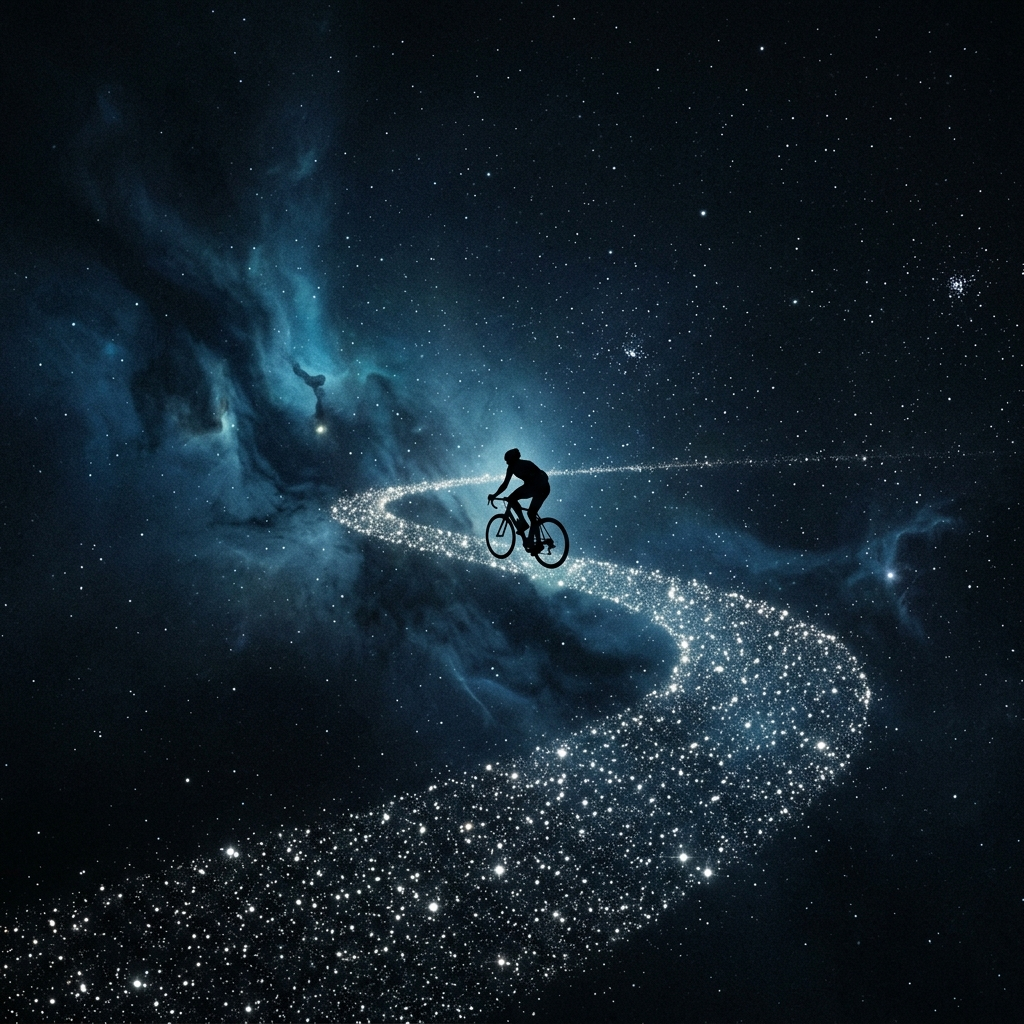
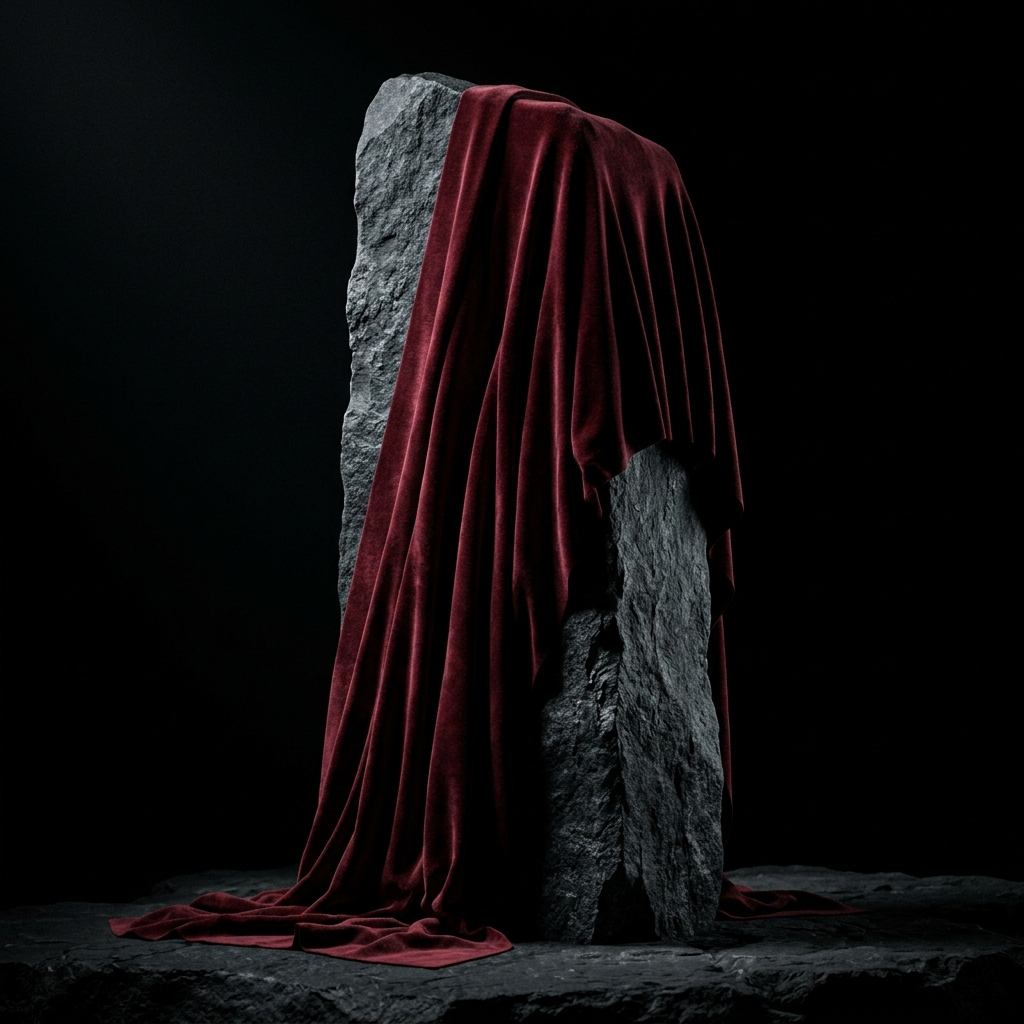
General UI Update

diff --git a/app/components/HeroSection.tsx b/app/components/HeroSection.tsx
@@ -2,68 +2,68 @@
 
 export default function HeroSection() {
   return (
-    <section className="relative pt-[160px] pb-[80px] min-h-[90vh] flex items-center overflow-hidden">
-      <div className="mesh-bg" />
-      
-      <div className="wrap relative z-10 grid grid-cols-1 md:grid-cols-2 gap-12 items-center w-full">
-        {/* Left Content */}
-        <div className="anim-fade-up">
-          <div className="text-3xl mb-4">👋</div>
-          <h1 className="text-[3rem] md:text-[4.5rem] font-bold leading-[1.1] tracking-tight mb-4 text-balance">
-            Hello! I&apos;m <br /> Halil İbrahim
-          </h1>
-          <div className="flex items-center gap-3 mb-6">
-            <span className="text-xl font-medium">Software Architect</span>
-            <span className="text-xl">✦</span>
+    <section className="relative min-h-screen flex flex-col justify-between overflow-hidden bg-[#050505] pt-40 pb-12">
+      {/* Background Image */}
+      <div className="absolute inset-0 w-full h-full">
+        <img 
+          src="/hero-bg.png" 
+          alt="Hero Background" 
+          className="w-full h-full object-cover opacity-70"
+        />
+        {/* Gradients for readability */}
+        <div className="absolute inset-0 bg-gradient-to-b from-[#050505]/80 via-transparent to-[#050505] z-0" />
+      </div>
+
+      {/* Giant Text */}
+      <div className="relative z-10 w-full text-center px-4 flex-1 flex flex-col justify-center">
+        <h1 className="text-[14vw] md:text-[12vw] font-bold tracking-tighter leading-none text-[#eaeaea] opacity-90 select-none" style={{ letterSpacing: '-0.05em' }}>
+          Halil İbrahim
+        </h1>
+      </div>
+
+      {/* Bottom Layout */}
+      <div className="relative z-10 w-full px-8 md:px-16 mt-auto">
+        {/* Info Grid */}
+        <div className="grid grid-cols-1 md:grid-cols-4 gap-8 md:gap-12 text-[#999999] text-[11px] md:text-xs font-medium tracking-wide mb-12">
+          
+          <div className="flex flex-col gap-1">
+            <span className="text-white font-bold mb-1">Software Architect &</span>
+            <span>Embedded Systems Engineer</span>
           </div>
-          
-          <p className="text-[15px] leading-relaxed text-gray-600 dark:text-gray-300 max-w-md mb-8">
-            Hello! I&apos;m Halil İbrahim. I&apos;m a <strong>software architect, embedded systems engineer, backend developer</strong>, and a long-distance cycling enthusiast!
-          </p>
-          
-          <ul className="space-y-3 mb-10 text-[14.5px] font-medium text-gray-800 dark:text-gray-200">
-            <li className="flex items-center gap-3">
-              <svg className="w-5 h-5 text-black dark:text-white flex-shrink-0" fill="none" viewBox="0 0 24 24" stroke="currentColor"><path strokeLinecap="round" strokeLinejoin="round" strokeWidth={2.5} d="M5 13l4 4L19 7" /></svg>
-              Systems must be scalable
-            </li>
-            <li className="flex items-center gap-3">
-              <svg className="w-5 h-5 text-black dark:text-white flex-shrink-0" fill="none" viewBox="0 0 24 24" stroke="currentColor"><path strokeLinecap="round" strokeLinejoin="round" strokeWidth={2.5} d="M5 13l4 4L19 7" /></svg>
-              Solve complex problems elegantly
-            </li>
-            <li className="flex items-center gap-3">
-              <svg className="w-5 h-5 text-black dark:text-white flex-shrink-0" fill="none" viewBox="0 0 24 24" stroke="currentColor"><path strokeLinecap="round" strokeLinejoin="round" strokeWidth={2.5} d="M5 13l4 4L19 7" /></svg>
-              Firmware to Cloud integration
-            </li>
-          </ul>
-          
-          <div className="flex flex-wrap items-center gap-6">
-            <a href="#contact" className="bg-black dark:bg-white text-white dark:text-black px-8 py-3.5 rounded-full font-medium text-[15px] hover:bg-gray-800 dark:hover:bg-gray-200 transition-colors">
-              Let&apos;s Talk
-            </a>
-            <a href="#" className="font-semibold text-[15px] border-b-2 border-black dark:border-white pb-0.5 hover:text-gray-600 dark:hover:text-gray-300 hover:border-gray-600 dark:hover:border-gray-300 transition-colors flex items-center gap-1">
-              Download Cv
-              <span className="text-sm">↓</span>
-            </a>
+
+          <div className="flex flex-col gap-1">
+            <span className="text-white font-bold mb-1">Based In</span>
+            <span>İzmir, Turkey</span>
+          </div>
+
+          <div className="flex flex-col gap-1">
+            <span className="text-white font-bold mb-1">Specializes in</span>
+            <span>Backend Development</span>
+            <span>Cloud Infrastructure</span>
+            <span>IoT Solutions</span>
+          </div>
+
+          <div className="flex flex-col gap-2">
+            <p className="leading-relaxed">
+              Halil İbrahim is a software architect and embedded systems engineer focusing on web design, scalable backend, and branding. He helps companies connect with their audience and grow their businesses through robust and meaningful digital products.
+            </p>
           </div>
         </div>
-        
-        {/* Right Content - Image Placeholder */}
-        <div className="relative w-full aspect-[4/5] md:aspect-square flex items-center justify-center anim-fade-up delay-200">
-          <div className="relative w-full max-w-[400px] aspect-[4/5] rounded-[2rem] bg-gray-100 dark:bg-zinc-800 border-2 border-white dark:border-zinc-700 shadow-xl overflow-hidden flex items-center justify-center">
-            {/* Real image would go here. Using a placeholder for now. */}
-            <div className="text-center p-6">
-              <p className="text-gray-400 dark:text-gray-500 font-medium text-sm tracking-widest uppercase mb-2">Portrait</p>
-              <p className="text-gray-300 dark:text-gray-600 text-xs">Add your photo here</p>
-            </div>
-          </div>
-          
-          {/* Decorative Elements */}
-          <div className="absolute top-[10%] left-[0%] w-16 h-16 border-t-2 border-l-2 border-black dark:border-white rounded-tl-3xl opacity-20 dark:opacity-30" />
-          <div className="absolute bottom-[20%] right-[5%] w-24 h-24 border-b-2 border-r-2 border-black dark:border-white rounded-br-3xl opacity-20 dark:opacity-30" />
-          
-          <div className="absolute top-[30%] -left-8 bg-black dark:bg-white text-white dark:text-black px-6 py-3 rounded-full font-medium transform -rotate-12 shadow-lg">
-            Hello!
-          </div>
+
+        {/* Bottom Action Buttons */}
+        <div className="flex items-center justify-between text-[#eaeaea] text-[10px] md:text-xs font-bold tracking-widest uppercase">
+          <a href="#contact" className="relative px-6 py-4 hover:text-white transition-colors group">
+            {/* Broken Borders [ ] */}
+            <span className="absolute top-0 left-0 w-2 h-2 border-t border-l border-white/30 group-hover:border-white transition-colors" />
+            <span className="absolute top-0 right-0 w-2 h-2 border-t border-r border-white/30 group-hover:border-white transition-colors" />
+            <span className="absolute bottom-0 left-0 w-2 h-2 border-b border-l border-white/30 group-hover:border-white transition-colors" />
+            <span className="absolute bottom-0 right-0 w-2 h-2 border-b border-r border-white/30 group-hover:border-white transition-colors" />
+            Discover Me
+          </a>
+
+          <span className="text-white/40">
+            [ Lets Scroll ]
+          </span>
         </div>
       </div>
     </section>

diff --git a/app/components/Header.tsx b/app/components/Header.tsx
@@ -14,34 +14,34 @@ export default function Header() {
 
         {/* Navigation */}
         <nav className="hidden md:flex items-start gap-12">
-          <Link href="#projects" className="group flex flex-col items-start relative w-[160px]">
+          <Link href="#projects" className="group flex flex-col items-start relative w-[170px]">
             {/* Top Border & Title row */}
-            <div className="w-full flex items-center justify-between border-t border-black dark:border-white pt-2 mb-1">
-              <span className="font-bold text-[14px]">My Projects</span>
-              <span className="text-[10px] transition-transform group-hover:-translate-y-0.5 group-hover:translate-x-0.5">↗</span>
+            <div className="w-full flex items-center justify-between border-t border-black dark:border-white pt-4 mb-2">
+              <span className="font-bold text-[16px]">My Projects</span>
+              <span className="text-[12px] transition-transform group-hover:-translate-y-0.5 group-hover:translate-x-0.5">↗</span>
             </div>
             {/* Subtitle */}
-            <span className="text-[11px] text-gray-500 leading-tight">
+            <span className="text-[12px] text-gray-500 leading-tight">
               See all of nice project<br/>i have done.
             </span>
           </Link>
           
-          <Link href="#about" className="group flex flex-col items-start relative w-[150px]">
-            <div className="w-full flex items-center justify-between border-t border-black dark:border-white pt-2 mb-1">
-              <span className="font-bold text-[14px]">About Me</span>
-              <span className="text-[10px] transition-transform group-hover:-translate-y-0.5 group-hover:translate-x-0.5">↗</span>
+          <Link href="#about" className="group flex flex-col items-start relative w-[160px]">
+            <div className="w-full flex items-center justify-between border-t border-black dark:border-white pt-4 mb-2">
+              <span className="font-bold text-[16px]">About Me</span>
+              <span className="text-[12px] transition-transform group-hover:-translate-y-0.5 group-hover:translate-x-0.5">↗</span>
             </div>
-            <span className="text-[11px] text-gray-500 leading-tight">
+            <span className="text-[12px] text-gray-500 leading-tight">
               Learn about my self<br/>what i do
             </span>
           </Link>
 
-          <Link href="#contact" className="group flex flex-col items-start relative w-[170px]">
-            <div className="w-full flex items-center justify-between border-t border-black dark:border-white pt-2 mb-1">
-              <span className="font-bold text-[14px]">Contact me</span>
-              <span className="text-[10px] transition-transform group-hover:-translate-y-0.5 group-hover:translate-x-0.5">↗</span>
+          <Link href="#contact" className="group flex flex-col items-start relative w-[180px]">
+            <div className="w-full flex items-center justify-between border-t border-black dark:border-white pt-4 mb-2">
+              <span className="font-bold text-[16px]">Contact me</span>
+              <span className="text-[12px] transition-transform group-hover:-translate-y-0.5 group-hover:translate-x-0.5">↗</span>
             </div>
-            <span className="text-[11px] text-gray-500 leading-tight">
+            <span className="text-[12px] text-gray-500 leading-tight">
               [email redacted]
             </span>
           </Link>

diff --git a/app/page.tsx b/app/page.tsx
@@ -1,9 +1,7 @@
 import Header from "./components/Header";
 import HeroSection from "./components/HeroSection";
 import ScrollingBanner from "./components/ScrollingBanner";
-import SocialsBar from "./components/SocialsBar";
 import ServicesSection from "./components/ServicesSection";
-import ExperienceList from "./components/ExperienceList";
 import CaseStudySection from "./components/CaseStudySection";
 import Footer from "./components/Footer";
 
@@ -14,15 +12,7 @@ export default function Home() {
       <main id="top" className="font-sans">
         <HeroSection />
         <ScrollingBanner />
-        <SocialsBar />
         <ServicesSection />
-        
-        <section className="py-24" id="experience">
-          <div className="wrap">
-            <ExperienceList />
-          </div>
-        </section>
-
         <CaseStudySection />
       </main>
       <Footer />

diff --git a/app/globals.css b/app/globals.css
@@ -1,6 +1,8 @@
 @import url('https://fonts.googleapis.com/css2?family=Geist:wght@300;400;500;600;700&display=swap');
 @import "tailwindcss";
 
+@custom-variant dark (&:where(.dark, .dark *));
+
 @theme {
   --font-sans: 'Geist', 'Inter', system-ui, sans-serif;
   --color-background: #ffffff;